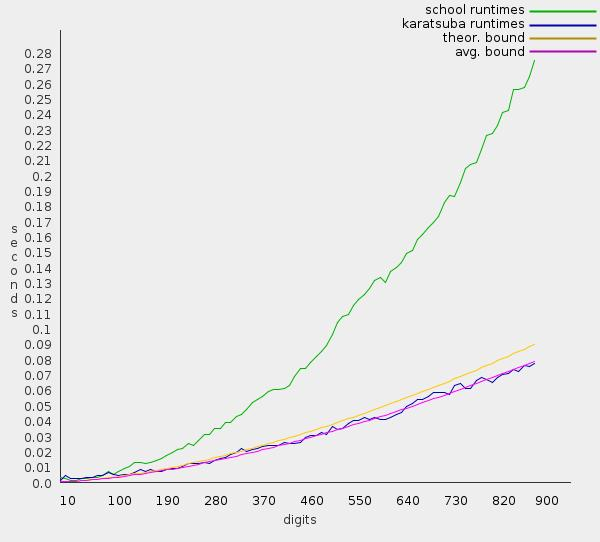
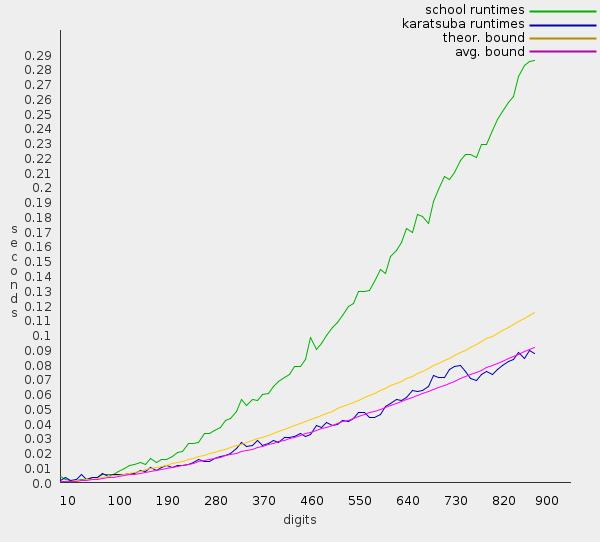
correct implementation and redo plot

diff --git a/src/imult/StudentCode.java b/src/imult/StudentCode.java
@@ -66,19 +66,23 @@ public class StudentCode {
 	  int n = Math.max(A.length(), B.length());
 	  int mid = Math.floorDiv(n, 2);
 	  
-//	  obtain in reverse order due to representation
-	  BigInt alphaZero 	= A.split(0, mid-1);
-	  BigInt alphaOne 	= A.split(mid, n);
-	  
-	  BigInt betaZero 	= B.split(0, mid-1);
-	  BigInt betaOne 	= B.split(mid, n);
-	  
 //	  base case - single multiplication
 	  boolean cond = A.length() <= 1 || B.length() <= 1;
 	  
 	  if (cond) {
-		  r = Arithmetic.schoolMul(alphaOne, betaOne);
+		  DigitAndCarry dc = Arithmetic.mulDigits(A.getDigit(0), B.getDigit(0));
+		  
+		  r.setDigit(0, dc.getDigit());
+		  r.setDigit(1, dc.getCarry());
+		  
 	  } else {
+		  
+//		  obtain in reverse order due to representation
+		  BigInt alphaZero 	= A.split(0, mid-1);
+		  BigInt alphaOne 	= A.split(mid, n);
+		  
+		  BigInt betaZero 	= B.split(0, mid-1);
+		  BigInt betaOne 	= B.split(mid, n);
 		  
 		  BigInt tZero	= koMul(alphaZero, betaZero);
 		  
@@ -112,6 +116,7 @@ public class StudentCode {
 //	  control for Opt variant:
 	  int min = Math.min(A.length(), B.length());
 	  
+//	  confirm lengths match to satisfy schoolMul
 	  if (min <= 10 && A.length() == B.length()) {
 		  
 		  r = Arithmetic.schoolMul(A, B);
@@ -122,38 +127,37 @@ public class StudentCode {
 		  int mid = Math.floorDiv(n, 2);
 		  
 //		  obtain in reverse order due to representation
-		  BigInt alphaZero 	= A.split(0, mid-1);
-		  BigInt alphaOne 	= A.split(mid, n);
 		  
-		  BigInt betaZero 	= B.split(0, mid-1);
-		  BigInt betaOne 	= B.split(mid, n);
 		  
 //		  base case - single multiplication
 		  boolean cond = A.length() <= 1 || B.length() <= 1;
 		  
-		  if (cond && A.length() == B.length()) {
+		  if (cond) {
+			  DigitAndCarry dc = Arithmetic.mulDigits(A.getDigit(0), B.getDigit(0));
 			  
-			  r = Arithmetic.schoolMul(alphaOne, betaOne);
+			  r.setDigit(0, dc.getDigit());
+			  r.setDigit(1, dc.getCarry());
 			  
 		  } else {
+			  
+			  BigInt alphaZero 	= A.split(0, mid-1);
+			  BigInt alphaOne 	= A.split(mid, n);
+			  
+			  BigInt betaZero 	= B.split(0, mid-1);
+			  BigInt betaOne 	= B.split(mid, n);
 			  
 			  BigInt tZero	= koMulOpt(alphaZero, betaZero);
 			  
 			  BigInt tTwo	= koMulOpt(alphaOne, betaOne);
 			  
 			  BigInt tOne	= sub(
-					  koMulOpt((add(alphaZero, alphaOne)), (add(betaZero, betaOne))),
-					  add(tZero, tTwo)
-					  );
+								  koMulOpt((add(alphaZero, alphaOne)), (add(betaZero, betaOne))),
+								  add(tZero, tTwo)
+								  );
 			  
-//		  System.out.println(tZero.value());
-//		  System.out.println(tOne.value());
-//		  System.out.println(tTwo.value());
-			  
-//			  tTwo.lshift(2 * mid);
-//			  tOne.lshift(mid);
-//			  
-//			  r = add(add(tZero, tOne), tTwo);
+//			  System.out.println(tZero.value());
+//			  System.out.println(tOne.value());
+//			  System.out.println(tTwo.value());
 			  
 			  r = add(r, tTwo);
 			  r.lshift(mid);
@@ -194,25 +198,29 @@ public class StudentCode {
 //	  sub(b, a).print();
 //	  BigInt.setRandSeed(19980212);
 //	  
+//	  
+	  File times = new File("koMulOptTimes.txt");
+//	  File ratios = new File("koMulOptRatios.txt");
+//	  
 //	  BigIntMul.getRunTimes(
 //			  new Unsigned(1),
 //			  new Unsigned(10),
 //			  new Unsigned(90),
-//			  new File("testTimes"),
+//			  times,
 //			  true);
 //	  
 //	  BigIntMul.getRatios(
 //			  new Unsigned(1),
 //			  new Unsigned(10),
 //			  new Unsigned(90),
-//			  new File("testRatios"),
+//			  ratios,
 //			  new Unsigned(100));
-//	 
-//	  
+	 
+	  
 	  BigIntMul.plotRunTimes(
-			  0.0018645571121443064,
-			  0.0016374178205805039,
-			  new File("koMulOptTimes.txt"));
+			  0.0023802292733919746,
+			  0.001898901889814535,
+			  times);
 	  
   }
 } //end StudentCode class
